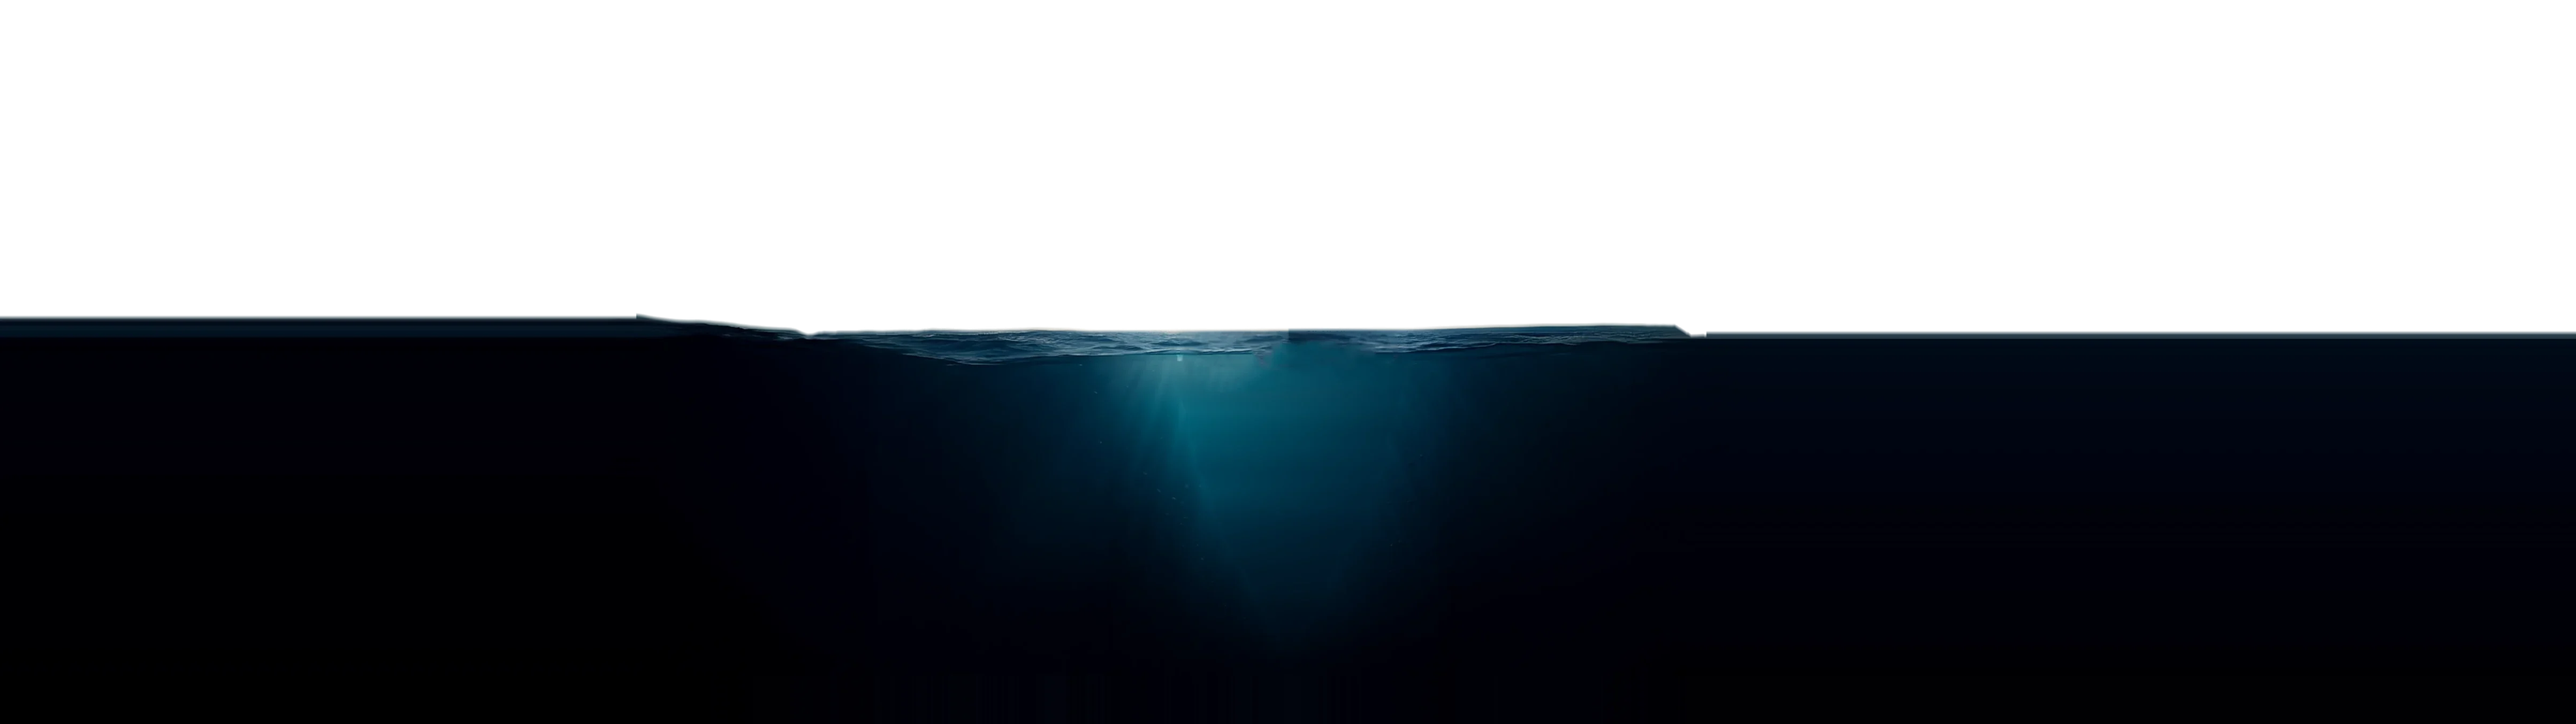
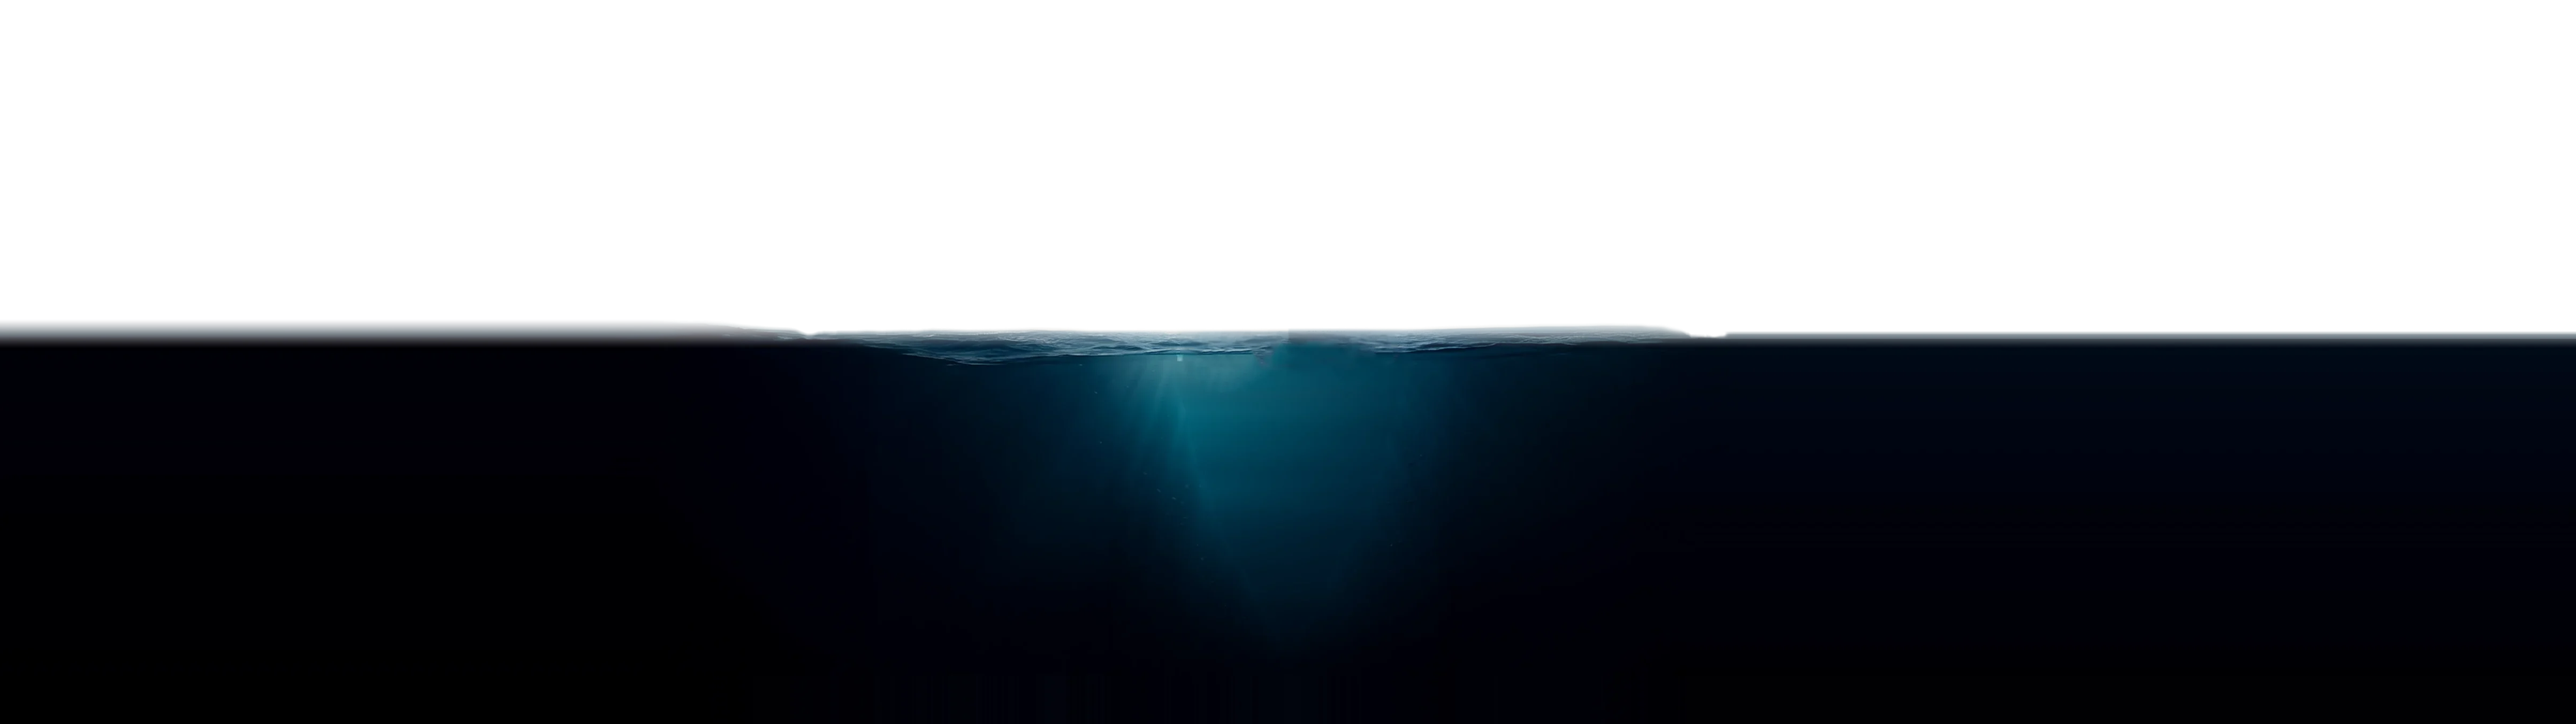
Construtoras: água do iceberg sem o ponto branco, paralaxe com o mouse no iceberg e quadro dos 81% menor, sem os arcos
Claude-Session: https://claude.ai/code/session_01NR1hPZNFC1Ko8YBMMpayBJ

Changed region(s): [[0.0, 0.4343, 1.0, 0.4963]]

diff --git a/src/components/ConstrutorasTopo.tsx b/src/components/ConstrutorasTopo.tsx
@@ -11,7 +11,7 @@ import { useGSAP } from "@gsap/react";
 gsap.registerPlugin(ScrollTrigger, SplitText, useGSAP);
 
 // Topo da página de Construtoras: título e, abaixo, a sala vazia com o dado dos 81%
-// escrito na parede (como no slide da apresentação). A imagem abre da moldura para a
+// escrito na parede (como no slide da apresentação, sem os arcos). A imagem abre da moldura para a
 // largura toda com a rolagem, no mesmo padrão das outras páginas.
 export default function ConstrutorasTopo() {
   const raiz = useRef<HTMLElement>(null);
@@ -51,15 +51,6 @@ export default function ConstrutorasTopo() {
           ease: "expo.out",
           scrollTrigger: { trigger: "[data-janela]", start: "top 45%" },
         });
-        gsap.from("[data-arco]", {
-          scale: 0.4,
-          opacity: 0,
-          rotate: -40,
-          duration: 1.4,
-          stagger: 0.15,
-          ease: "expo.out",
-          scrollTrigger: { trigger: "[data-janela]", start: "top 45%" },
-        });
         return () => titulo.revert();
       });
     },
@@ -94,9 +85,9 @@ export default function ConstrutorasTopo() {
         style={{ clipPath: "inset(0% 6% 0% 6% round 28px)" }}
       >
         {/* No celular a imagem fica mais alta (recorte na parede); no resto, a foto inteira.
-            O texto e os arcos são medidos pela largura da imagem (cqw), então mantêm a mesma
+            O texto é medido pela largura da imagem (cqw), então mantêm a mesma
             posição e as mesmas quebras em qualquer resolução. */}
-        <div data-parede className="relative aspect-[4/5] w-full sm:aspect-[1916/1209]">
+        <div data-parede className="relative aspect-[4/5] w-full sm:aspect-[1440/700]">
           <Image
             src="/img/construtoras-vazio.webp"
             alt="Apartamento vazio, sem ambientação"
@@ -106,14 +97,9 @@ export default function ConstrutorasTopo() {
             className="object-cover object-[22%_50%] sm:object-center"
           />
 
-          <div data-dado className="absolute top-[22%] left-[12%] text-[9.8cqw] sm:top-[26%] sm:left-[22%] sm:text-[5.6cqw]">
-            <span
-              data-arco
-              aria-hidden
-              className="absolute -top-[0.75em] left-[4.6em] block size-[1.6em] rounded-full border-[0.22em] border-white border-r-transparent border-b-transparent border-l-transparent"
-              style={{ transform: "rotate(-30deg)" }}
-            />
-            <p className="leading-[1.02] font-semibold tracking-[-0.02em] whitespace-nowrap text-grafite">
+          {/* Medidas do Figma: caixa de 1268 × 700 dentro da largura de 1440, texto de 60 px */}
+          <div data-dado className="absolute top-[24%] left-[12%] text-[8.6cqw] sm:top-[32.4%] sm:left-[25.35%] sm:text-[4.17cqw]">
+            <p className="leading-[0.82] font-semibold tracking-[-0.02em] whitespace-nowrap text-grafite">
               81% dos
               <br />
               compradores
@@ -126,15 +112,9 @@ export default function ConstrutorasTopo() {
               <br />
               estiver vazio
             </p>
-            <p className="mt-[0.45em] text-[0.2em] whitespace-nowrap text-grafite/70">
+            <p className="mt-[0.45em] text-[0.233em] whitespace-nowrap text-grafite/70">
               <strong className="font-semibold text-grafite">Fonte:</strong> Associação Americana de Corretores
             </p>
-            <span
-              data-arco
-              aria-hidden
-              className="absolute top-[calc(100%+0.5em)] -left-[0.3em] sm:-left-[1.4em] block size-[1.6em] rounded-full border-[0.22em] border-white border-r-transparent border-b-transparent border-l-transparent"
-              style={{ transform: "rotate(-120deg)" }}
-            />
           </div>
         </div>
       </div>

diff --git a/src/components/IcebergEtapas.tsx b/src/components/IcebergEtapas.tsx
@@ -37,13 +37,17 @@ const pct = (o: { left: number; top: number; width: number; height: number }) =>
   height: `${o.height}%`,
 });
 
+// Paralaxe com o mouse: cada camada se desloca proporcionalmente à "profundidade" (px no
+// extremo da tela). Usa a propriedade CSS translate, separada do transform da rolagem.
+const prof = (k: number) => ({ translate: `calc(var(--mx, 0) * ${k}px) calc(var(--my, 0) * ${k}px)` });
+
 // Céu, água (com a ondulação na faixa da superfície) e iceberg, empilhados
 function Camadas() {
   return (
     <div data-palco className="pointer-events-none absolute" style={pct(PALCO)}>
       {/* eslint-disable-next-line @next/next/no-img-element */}
-      <img data-ceu src="/img/iceberg/ceu.webp" alt="" className="absolute inset-0 h-full w-full" />
-      <div data-agua className="absolute inset-0">
+      <img data-ceu src="/img/iceberg/ceu.webp" alt="" className="absolute inset-0 h-full w-full" style={prof(-8)} />
+      <div data-agua className="absolute inset-0" style={prof(10)}>
         {/* eslint-disable-next-line @next/next/no-img-element */}
         <img src="/img/iceberg/agua.webp" alt="" className="absolute inset-0 h-full w-full" />
         {/* Faixa da superfície com ondulação (filtro SVG animado) */}
@@ -58,7 +62,7 @@ function Camadas() {
         src="/img/iceberg/iceberg.webp"
         alt="Iceberg: a ponta acima da água e a maior parte submersa"
         className="absolute"
-        style={pct(ICEBERG)}
+        style={{ ...pct(ICEBERG), ...prof(24) }}
       />
     </div>
   );
@@ -95,6 +99,36 @@ export default function IcebergEtapas() {
         entrada.fromTo("[data-cta]", { opacity: 0, y: 16 }, { opacity: 1, y: 0, duration: 0.6 }, 0.2 + ETAPAS.length * 0.22);
         ScrollTrigger.create({ trigger: raiz.current, start: "top 55%", once: true, onEnter: () => entrada.play() });
       });
+
+      // Paralaxe com o mouse (só em telas grandes com mouse): o fundo vai para um lado,
+      // a água e o iceberg para o outro, com suavização
+      mm.add("(min-width: 1280px) and (pointer: fine) and (prefers-reduced-motion: no-preference)", () => {
+        const el = raiz.current!;
+        const pos = { x: 0, y: 0 };
+        const aplicar = () => {
+          el.style.setProperty("--mx", pos.x.toFixed(4));
+          el.style.setProperty("--my", pos.y.toFixed(4));
+        };
+        const irX = gsap.quickTo(pos, "x", { duration: 1.2, ease: "power3.out", onUpdate: aplicar });
+        const irY = gsap.quickTo(pos, "y", { duration: 1.2, ease: "power3.out", onUpdate: aplicar });
+        const mover = (e: PointerEvent) => {
+          const r = el.getBoundingClientRect();
+          irX(((e.clientX - r.left) / r.width) * 2 - 1);
+          irY(((e.clientY - r.top) / r.height) * 2 - 1);
+        };
+        const sair = () => {
+          irX(0);
+          irY(0);
+        };
+        el.addEventListener("pointermove", mover);
+        el.addEventListener("pointerleave", sair);
+        return () => {
+          el.removeEventListener("pointermove", mover);
+          el.removeEventListener("pointerleave", sair);
+          el.style.removeProperty("--mx");
+          el.style.removeProperty("--my");
+        };
+      });
     },
     { scope: raiz },
   );
@@ -118,7 +152,7 @@ export default function IcebergEtapas() {
       <div className="@container relative hidden aspect-[2000/1174] w-[min(100vw,calc(100svh*2000/1174))] xl:block">
         <Camadas />
 
-        <div data-textos className="absolute inset-0">
+        <div data-textos className="absolute inset-0" style={prof(16)}>
           <div className="absolute top-[9%] left-[6%]">
             <h2 className="text-[4.4cqw] leading-[0.95] font-semibold tracking-[-0.02em]">
               Etapas da <br />
